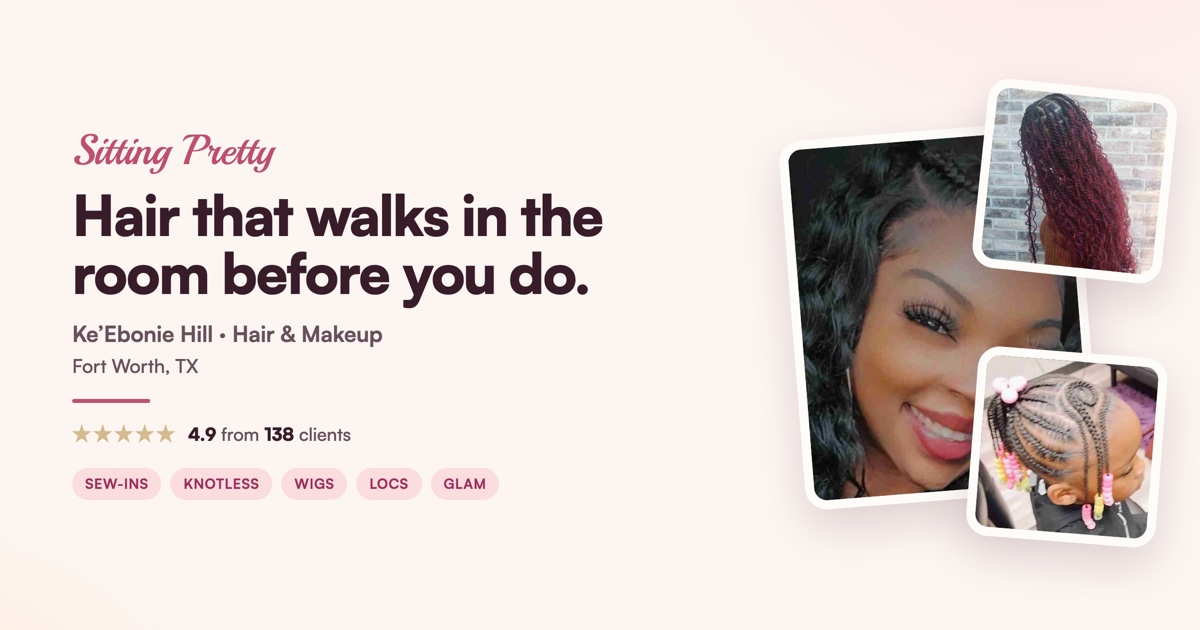
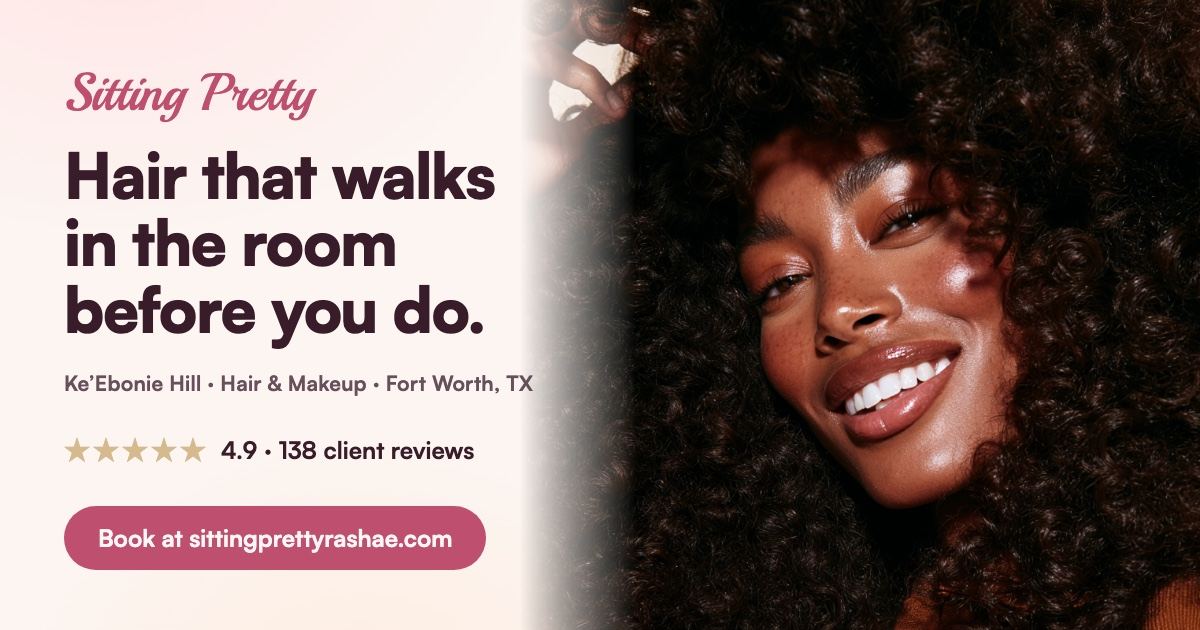
New OG share card: model portrait beside the brand panel
Nelson's Midjourney render on the right, real text composited on the left
(wordmark, headline, her real 4.9 / 138 rating, the booking domain) at
exactly 1200x630, so texted and posted links preview with the campaign look.

diff --git a/index.html b/index.html
@@ -17,7 +17,7 @@
 <meta property="og:image" content="https://sittingprettyrashae.com/assets/og-card.jpg">
 <meta property="og:image:width" content="1200">
 <meta property="og:image:height" content="630">
-<meta property="og:image:alt" content="Sitting Pretty by Ke'Ebonie Hill, hair and makeup in Fort Worth, Texas, rated 4.9 from 138 clients">
+<meta property="og:image:alt" content="Sitting Pretty: a model with voluminous curls beside the words Hair that walks in the room before you do, Ke'Ebonie Hill, Hair and Makeup, Fort Worth TX, rated 4.9 across 138 client reviews">
 <meta name="twitter:card" content="summary_large_image">
 <meta name="twitter:title" content="Sitting Pretty — Ke'Ebonie Hill · Hair & Makeup, Fort Worth">
 <meta name="twitter:description" content="Sew-ins, knotless braids, wigs, locs, crochet and full glam. Book your seat online.">
